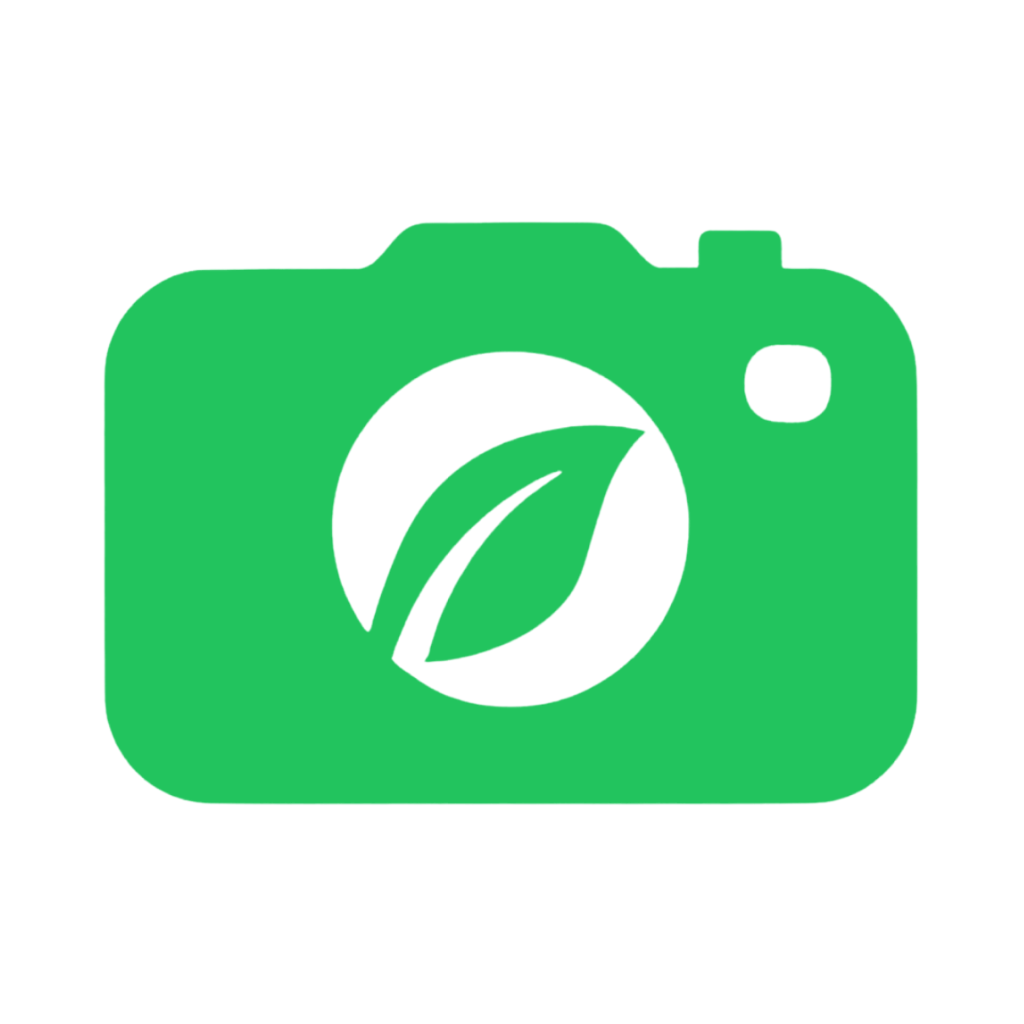
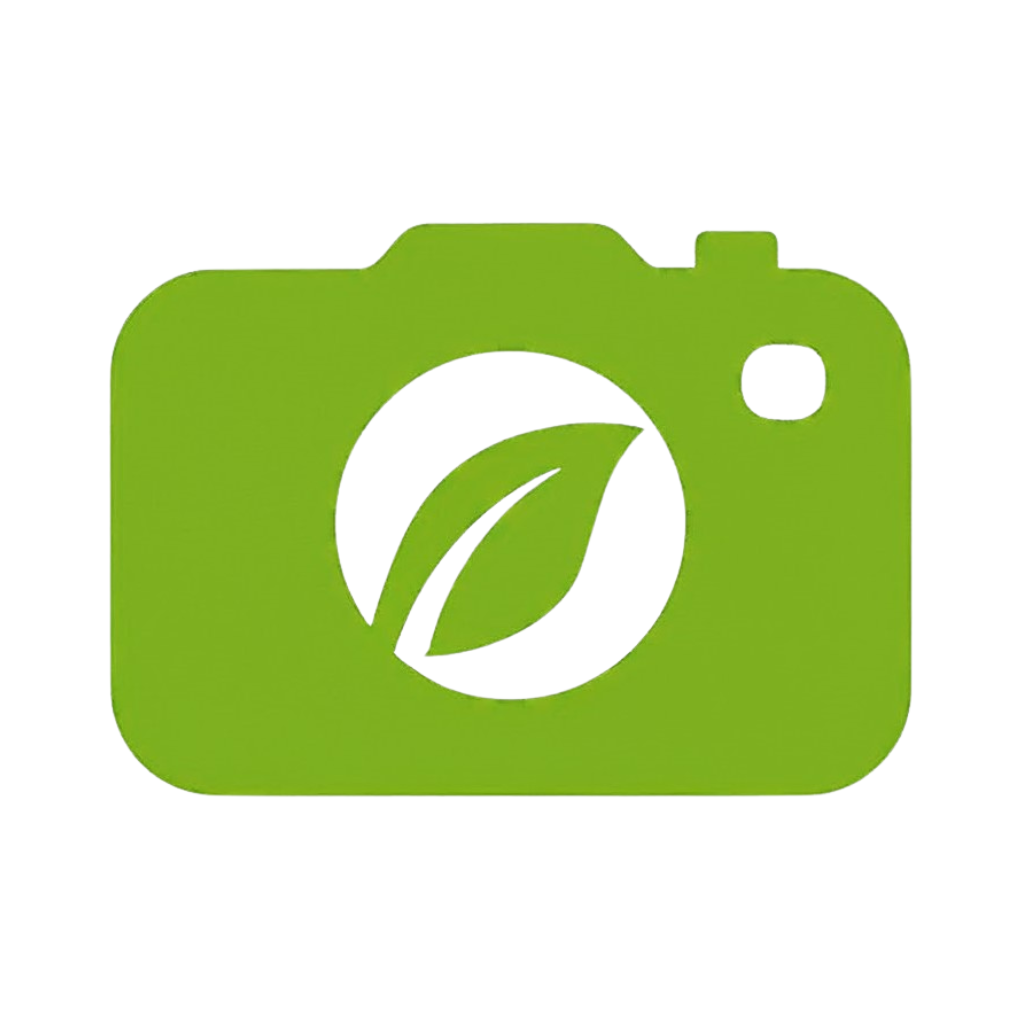
Design improvements

diff --git a/appp/templates/splash.html b/appp/templates/splash.html
@@ -53,7 +53,7 @@
             justify-content: center;
             font-family: 'Roboto', sans-serif;
             transition: background-color 1s;
-            background-color: #3AA76D;
+            background-color: #10B981;
         }
         .container {
             text-align: center;
